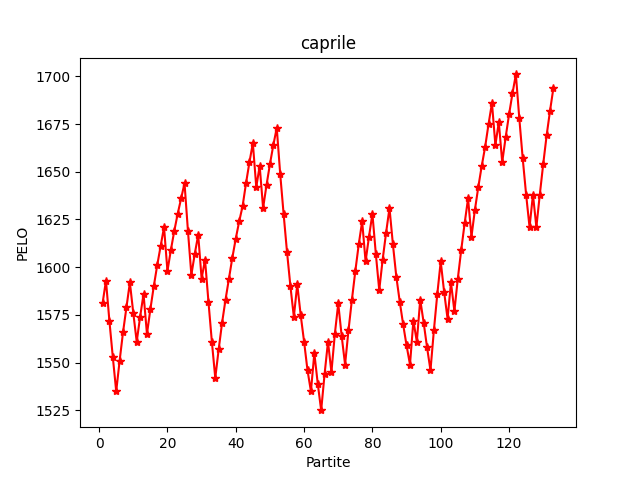
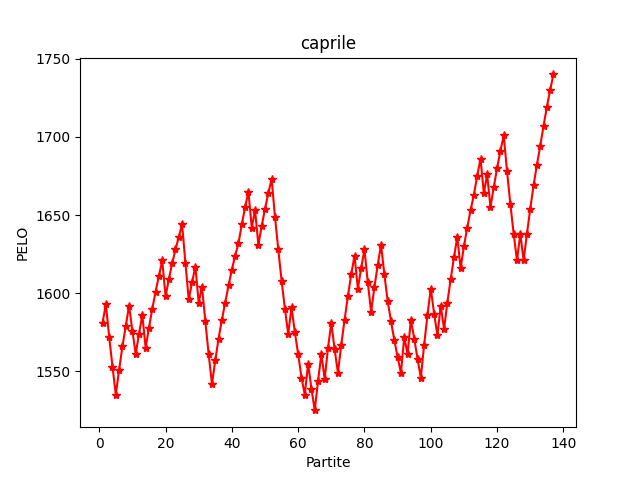
Add files via upload

diff --git a/index.htm b/index.htm
@@ -18,11 +18,11 @@
     <tr>
       <th>0</th>
       <td><a href='caprile.png'>caprile</a></td>
-      <td>1694</td>
-      <td>174</td>
-      <td>107</td>
-      <td>1767</td>
-      <td>1537</td>
+      <td>1740</td>
+      <td>178</td>
+      <td>111</td>
+      <td>1811</td>
+      <td>1564</td>
     </tr>
     <tr>
       <th>1</th>
@@ -35,15 +35,6 @@
     </tr>
     <tr>
       <th>2</th>
-      <td><a href='castellani.png'>castellani</a></td>
-      <td>1611</td>
-      <td>390</td>
-      <td>168</td>
-      <td>3602</td>
-      <td>3887</td>
-    </tr>
-    <tr>
-      <th>3</th>
       <td><a href='malvagi.png'>malvagi</a></td>
       <td>1611</td>
       <td>60</td>
@@ -52,7 +43,7 @@
       <td>574</td>
     </tr>
     <tr>
-      <th>4</th>
+      <th>3</th>
       <td><a href='zontini.png'>zontini</a></td>
       <td>1585</td>
       <td>201</td>
@@ -61,13 +52,22 @@
       <td>1920</td>
     </tr>
     <tr>
-      <th>5</th>
+      <th>4</th>
       <td><a href='turino.png'>turino</a></td>
       <td>1575</td>
       <td>14</td>
       <td>9</td>
       <td>130</td>
       <td>123</td>
+    </tr>
+    <tr>
+      <th>5</th>
+      <td><a href='castellani.png'>castellani</a></td>
+      <td>1569</td>
+      <td>394</td>
+      <td>168</td>
+      <td>3629</td>
+      <td>3931</td>
     </tr>
     <tr>
       <th>6</th>
